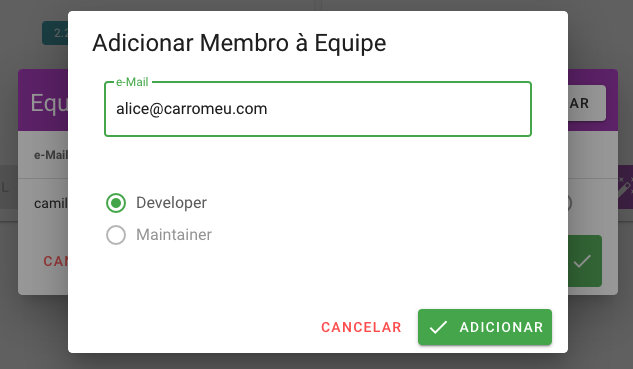
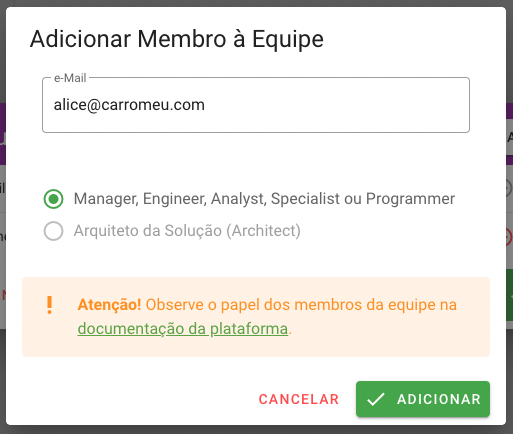
Página 'project'.

diff --git a/assets/css/custom-styles.css b/assets/css/custom-styles.css
@@ -78,3 +78,7 @@ div.partners div.right
 	font-family: 'Courier New', Courier, monospace;
 	display: inline-block;
 }
+
+table {
+	width: 100%;
+}

diff --git a/docs/project.md b/docs/project.md
@@ -71,7 +71,7 @@ Esta é uma das formas de encapsular aplicações em JavaScript, mas existem out
 
 ## Conferindo o GitLab
 
-Quando o projeto é criado fica disponível como um _card_ na _dashboard_ do usuário. Por meio deste _card_ os **mantenedores do projeto** (do inglês, _maintainers_) poderão gerenciá-lo. Por exemplo, é possível ativar e desativar os repositórios de suporte e acessar as páginas de documentação pública do projeto e da API.
+Quando o projeto é criado fica disponível como um _card_ na _dashboard_ do usuário. Por meio deste _card_ os _Architects_ (**Arquitetos da Solução**, como [explicado na página de _Squads_]({{ site.baseurl }}/docs/squads)) poderão gerenciá-lo. Por exemplo, é possível ativar e desativar os repositórios de suporte e acessar as páginas de documentação pública do projeto e da API.
 
 ![Menu de contexto do projeto]({{ site.baseurl }}/assets/img/project/04.png)
 
@@ -89,12 +89,13 @@ Quando o usuário opta por todos os repositórios de suporte do projeto, o grupo
 
 ## Equipe do Projeto
 
-Outra funcionalidade disponível é a **gestão da equipe do projeto**. Inicialmente o projeto terá um único membro na equipe, que é o próprio usuário que o criou. Este usuário poderá então adicionar novos usuários que podem ser de dois tipos:
+Outra funcionalidade disponível é a **gestão da equipe do projeto**, que possibilita inserir usuários ao projeto [atribuindo-lhes papéis]({{ site.baseurl }}/docs/squads). Inicialmente o projeto terá um único membro na equipe (do tipo [_Architect_]({{ site.baseurl }}/docs/squads#architect)), que é o próprio usuário que o criou. Este poderá então adicionar novos usuários, que podem ser de dois tipos:
 
-- **Mantenedores:** Possuem diversas permissões especiais, tal como adicionar novos membros à equipe, relalizar o _deploy_ em produção, o _backup_ de uma _build_ ou 'derrubar' uma instância; ou
-- **Desenvolvedores:** Podem fazer _pull_ para a _branch_ ```main``` e o _deploy_ em ambiente _alpha_ e _beta_ (testes internos e externos, respectivamente).
+- **Arquiteto da Solução (_Architect_):** Possuem diversas permissões especiais, tal como adicionar novos membros à equipe, relalizar o _deploy_ em produção, o _backup_ de uma _build_ ou 'derrubar' uma instância; ou
 
-> **Atenção!** Somente empregados da Embrapa podem ser **mantenedores**.
+- **Outro (_Engineer_, _Analyst_, _Manager_, _Specialist_ ou _Programmer_):** Podem fazer _pull_ para a _branch_ ```main``` e o _deploy_ em ambiente _alpha_ e _beta_ (testes internos e externos, respectivamente).
+
+> **Atenção!** Somente empregados da Embrapa podem ser _Architects_.
 
 ![Adicionando um usuário externo à equipe do projeto]({{ site.baseurl }}/assets/img/project/05.png)
 
